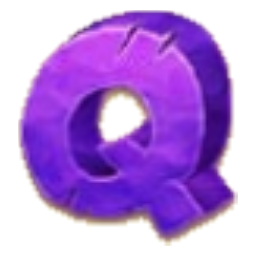
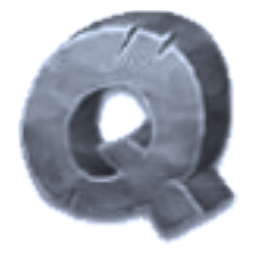
feat(GoBananas): 低分符號統一配色 + 全機制稽核（修掉 superspin 封頂無演出）
## 低分符號 A/K/Q/J/10 統一成一色

原本五個 royals 各有一色（岩漿紅/冰藍/紫晶/翠玉/銀鑽），低分層跟高分層
一樣吵。統一成風化槍鐵藍灰：

- 高分符號全是暖色（黃銅羅盤、橄欖頭盔、橘紅手榴彈、香蕉箱、金色 W/S/P），
  所以 royals 走冷色低飽和，對比最大又不搶戲
- silverize() 一般化為 unifyRoyal()，走亮度重上色，厚塗的刻面/斜角/高光
  全部保留，只換色相
- 曲線刻意壓在中間調而非壓暗（陰影 59、中間調 138、高光 255），在深橄欖
  盤面上不會糊掉

量測：五個 royals 平均 RGB 幾乎相同（~115,123,138）、飽和度全部 0.17；
高分符號飽和度 0.64-0.65（近 4 倍）且明顯偏暖。

順帶：賠付表本來就顯示 L2=L3、L4=L5 賠率完全相同，用五種顏色暗示五種
價值本來就是誤導；字母之間仍靠形狀辨識，那才是玩家實際在讀的。

## 全機制稽核（對照 30000 個 book 與查找表）

全部正確：RTP 三模式精準 0.965（base 0.965 / bonus 193.0÷200 /
superspin 48.25÷50）；max win 10000/10000/2000 與 config、INFO 一致；
成本 1/200/50 一致；數學發出的 13 種事件全部有 handler；4/5 scatter →
12/15 轉且無 3 scatter 觸發；再觸發 0 次（文案正確）；scatter 五輪都有
（文案正確）；多百搭同線是相加（[3,2] → meta.multiplier=5 而非 6，
文案 "added together" 正確）；base 盤面 W 倍率一律 1 且所有擴展事件的
gameType 皆為 freegame（文案正確）；prizeWinInfo.totalWin 等於金幣加總。

找到並修掉一個 —— superspin 封頂沒有任何演出：

superspin 沒有標準的回合結束事件（base/bonus 收在 freeSpinEnd），所以
數學不發 setWin 的結果跑到最後什麼都沒演。兩種：1000 個 book 賠 0
（前一輪已處理）、10 個 book 打到 2000 倍上限 —— 有 prizeWinInfo、有
wincap，但沒有 setWin，該模式最好的結果反而演出最弱。對照組 base/bonus
的封頂是 freeSpinEnd 帶 winLevel 10 = 'max'，大獎牌正常演出。

修法：finalWin 改用 winPresented 旗標（setWin 時設定）而非判斷金額，
一個分支涵蓋兩種；封頂走 winLevelMap[10] 的完整 MAX 演出，零分走
TOTAL WIN 銅牌。判旗標比判金額穩健。

待決：freeSpinRetrigger handler 是死碼（30000 個 book 從未發出，規則
文案也明說沒有再觸發），未移除但目前不可達。

驗證：兩支檢查腳本全過、build 通過、實跑載入正常零 console 錯誤、
配色以像素統計量測確認。

明細見 HANDOFF.md 5.26。

diff --git a/apps/GoBananas/src/game/bookEventHandlerMap.ts b/apps/GoBananas/src/game/bookEventHandlerMap.ts
@@ -26,6 +26,9 @@ const ANTICIPATION_MIN_SCATTERS = 3;
 const gateAnticipation = (anticipation: number[]) =>
 	anticipation.map((value) => (value >= ANTICIPATION_MIN_SCATTERS - 1 ? value : 0));
 
+// Set by setWin, read by finalWin: did this round actually present a win?
+let winPresented = false;
+
 const winLevelSoundsPlay = ({ winLevelData }: { winLevelData: WinLevelData }) => {
 	if (winLevelData?.alias === 'max') eventEmitter.broadcastAsync({ type: 'uiHide' });
 	if (winLevelData?.sound?.sfx) {
@@ -268,6 +271,7 @@ export const bookEventHandlerMap: BookEventHandlerMap<BookEvent, BookEventContex
 	},
 	setWin: async (bookEvent: BookEventOfType<'setWin'>) => {
 		const winLevelData = winLevelMap[bookEvent.winLevel as WinLevel];
+		winPresented = true;
 
 		eventEmitter.broadcast({ type: 'winShow' });
 		winLevelSoundsPlay({ winLevelData });
@@ -280,25 +284,51 @@ export const bookEventHandlerMap: BookEventHandlerMap<BookEvent, BookEventContex
 		eventEmitter.broadcast({ type: 'winHide' });
 	},
 	finalWin: async (bookEvent: BookEventOfType<'finalWin'>) => {
-		// A superspin round that collected nothing still has to tell the player it
-		// is over. Verified against books_superspin.jsonl.zst (10000 books):
-		// payout 0 and "no prizeWinInfo event" are exactly the same 1000 books —
-		// no book falls in either edge bucket — so amount === 0 is a safe test for
-		// "the tally presentation never ran".
-		if (stateBet.activeBetModeKey === 'SUPERSPIN' && bookEvent.amount === 0) {
-			const winLevelData = winLevelMap[1 as WinLevel]; // 'zero'
-			eventEmitter.broadcast({ type: 'freeSpinOutroShow' });
-			eventEmitter.broadcast({ type: 'soundOnce', name: 'sfx_youwon_panel' });
-			await eventEmitter.broadcastAsync({
-				type: 'freeSpinOutroCountUp',
-				amount: 0,
-				winLevelData,
-			});
-			// the 'zero' level presents for 0ms, so hold the plaque ourselves —
-			// otherwise it would flash by faster than the player can read it
-			await waitForTimeout(1.4 * SECOND);
-			eventEmitter.broadcast({ type: 'freeSpinOutroHide' });
+		// Superspin has no standard round-end event: base and bonus close on
+		// freeSpinEnd, superspin closes on whatever prizeWinInfo/setWin happen to
+		// be there. So any superspin outcome the math does NOT emit setWin for
+		// reaches this point having presented nothing at all. Two such outcomes
+		// exist, verified against books_superspin.jsonl.zst (10000 books):
+		//
+		//   · 1000 books pay 0 — no prizeWinInfo, no setWin
+		//   ·   10 books hit the 2000x cap — prizeWinInfo, wincap, but no setWin,
+		//       so the single best result in the mode had the weakest possible
+		//       presentation (a coin pulse and one sound effect)
+		//
+		// Testing the flag rather than the amount covers both, and keeps working
+		// if the math's event mix changes.
+		const isSuperspin = stateBet.activeBetModeKey === 'SUPERSPIN';
+		if (isSuperspin && !winPresented) {
+			if (bookEvent.amount > 0) {
+				// capped: give it the full max-win treatment it never got
+				const winLevelData = winLevelMap[10 as WinLevel]; // 'max'
+				eventEmitter.broadcast({ type: 'winShow' });
+				winLevelSoundsPlay({ winLevelData });
+				await eventEmitter.broadcastAsync({
+					type: 'winUpdate',
+					amount: bookEvent.amount,
+					winLevelData,
+				});
+				winLevelSoundsStop();
+				eventEmitter.broadcast({ type: 'winHide' });
+			} else {
+				const winLevelData = winLevelMap[1 as WinLevel]; // 'zero'
+				eventEmitter.broadcast({ type: 'freeSpinOutroShow' });
+				eventEmitter.broadcast({ type: 'soundOnce', name: 'sfx_youwon_panel' });
+				await eventEmitter.broadcastAsync({
+					type: 'freeSpinOutroCountUp',
+					amount: 0,
+					winLevelData,
+				});
+				// the 'zero' level presents for 0ms, so hold the plaque ourselves —
+				// otherwise it would flash by faster than the player can read it
+				await waitForTimeout(1.4 * SECOND);
+				eventEmitter.broadcast({ type: 'freeSpinOutroHide' });
+			}
 		}
+		// finalWin ends every book, so this is the safe place to arm the flag for
+		// the next round.
+		winPresented = false;
 
 		// Superspin teardown safety net.
 		//
